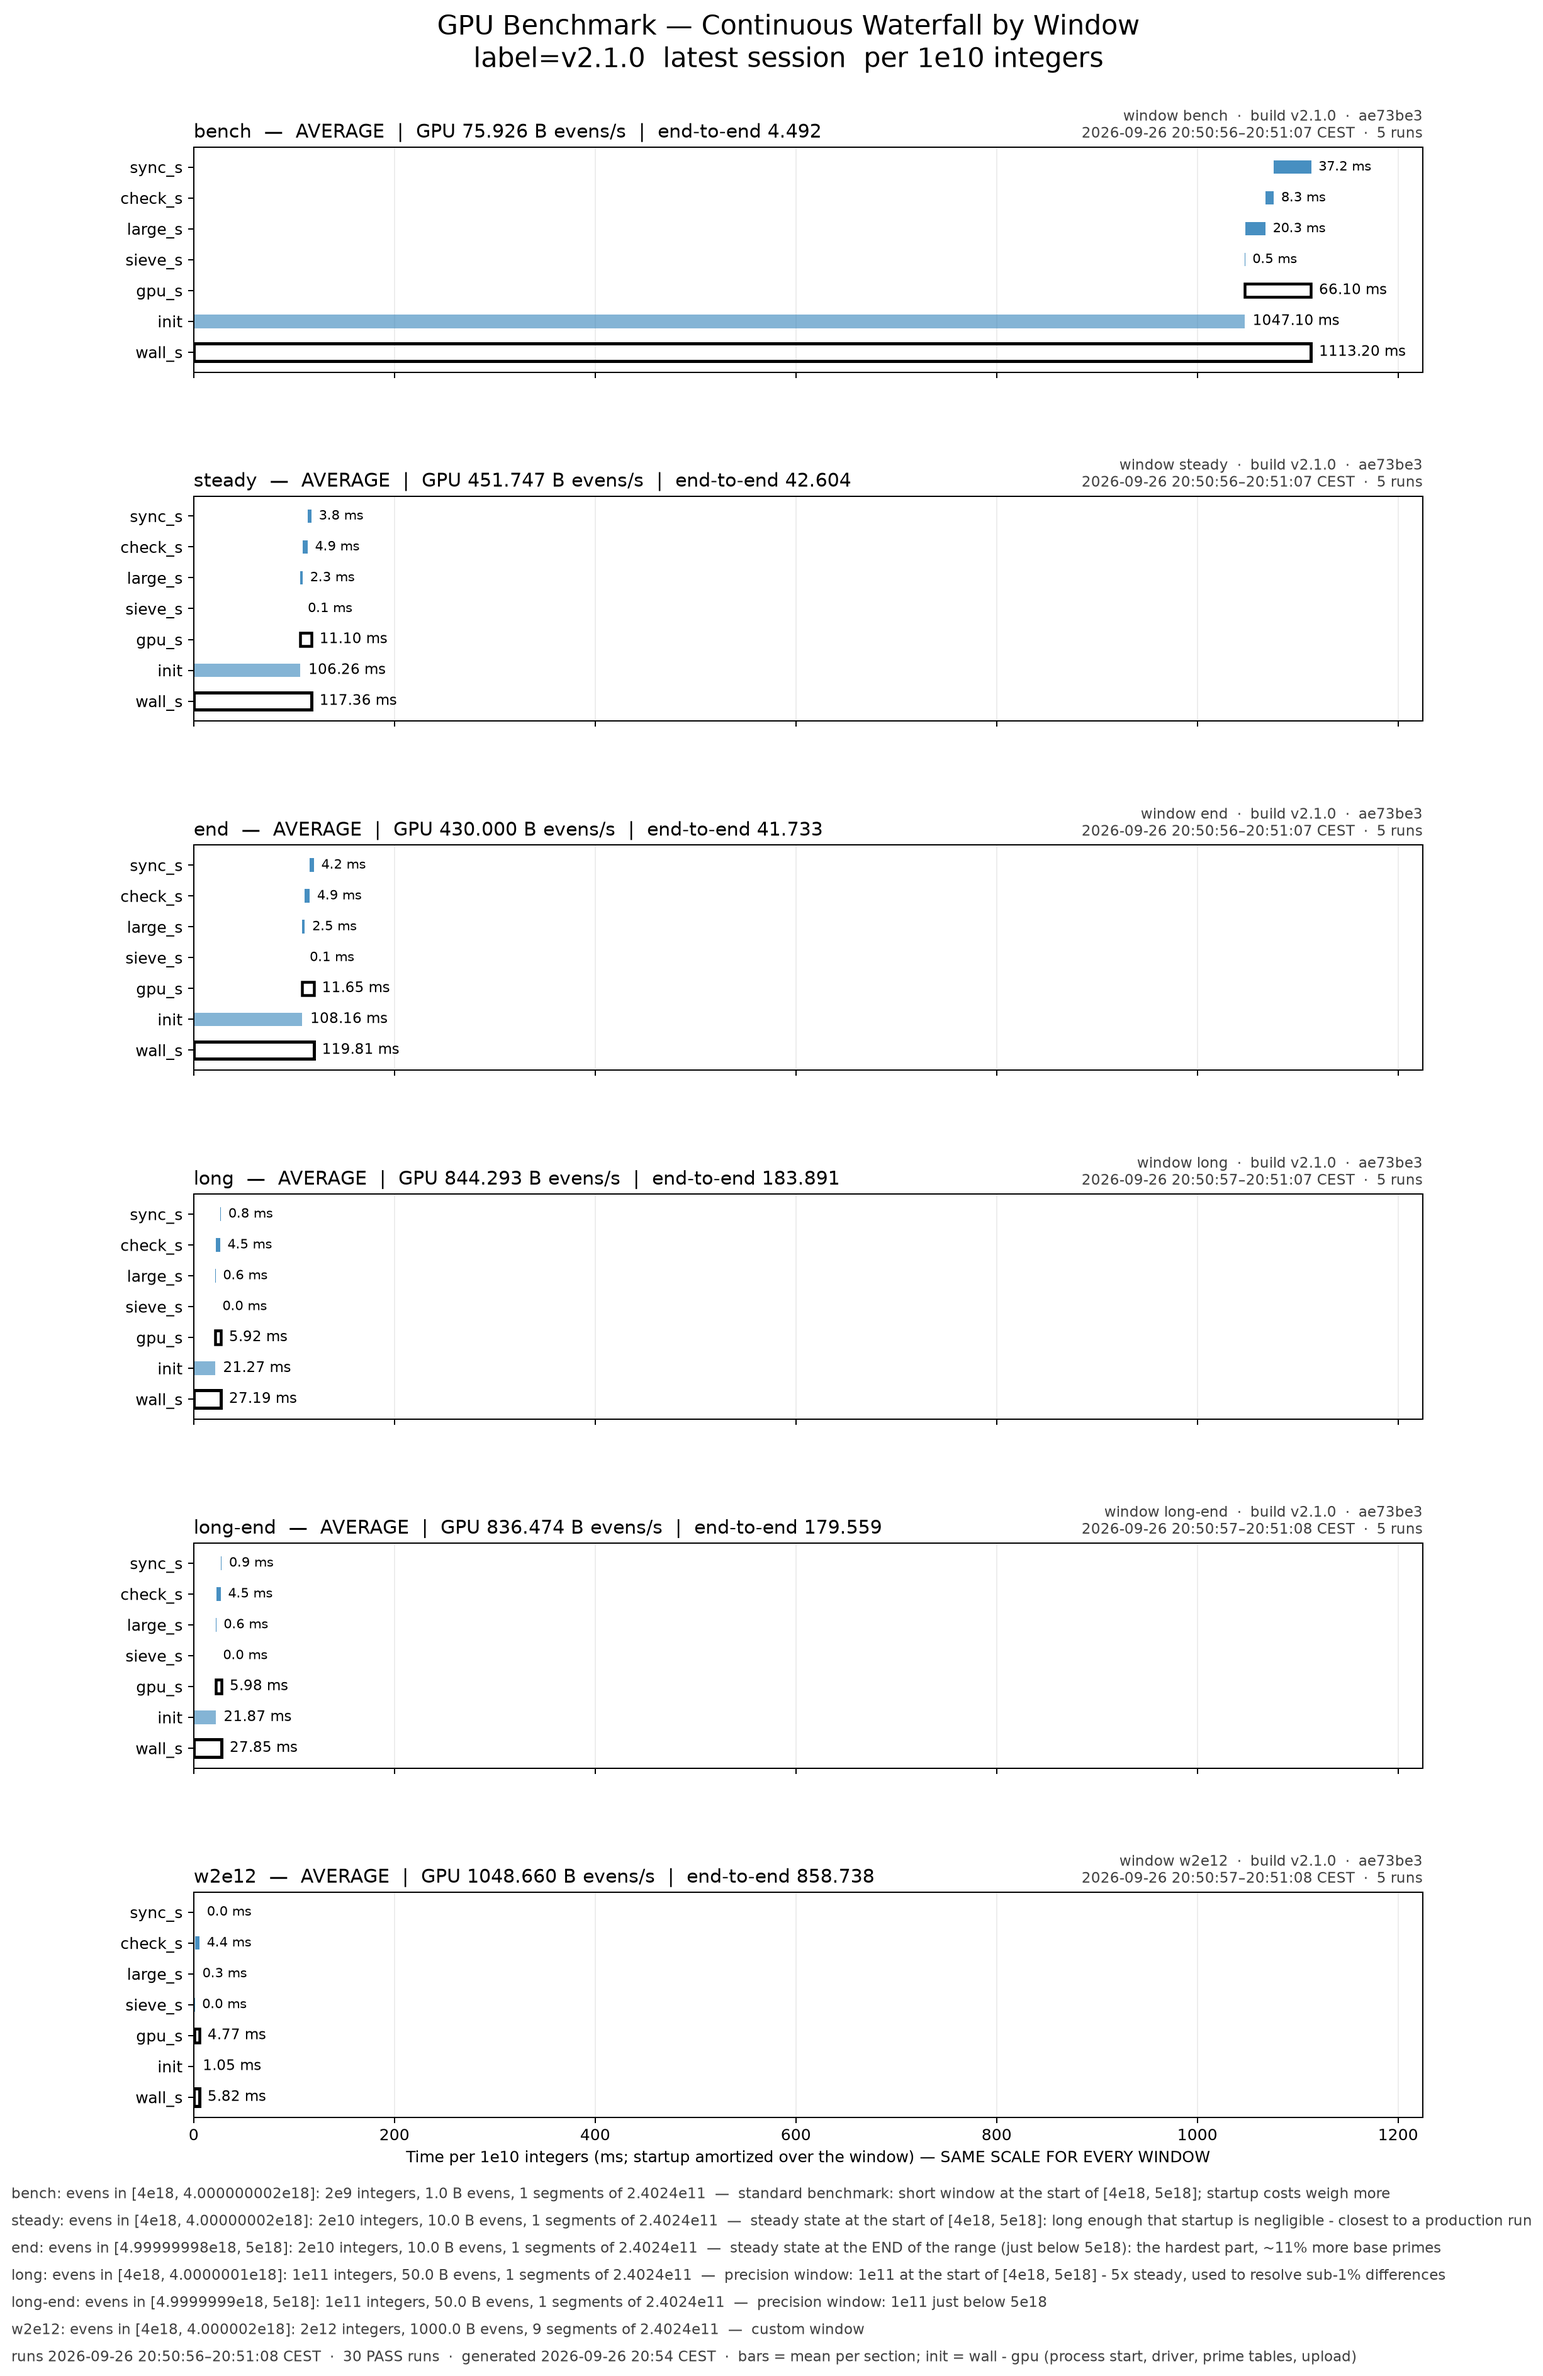
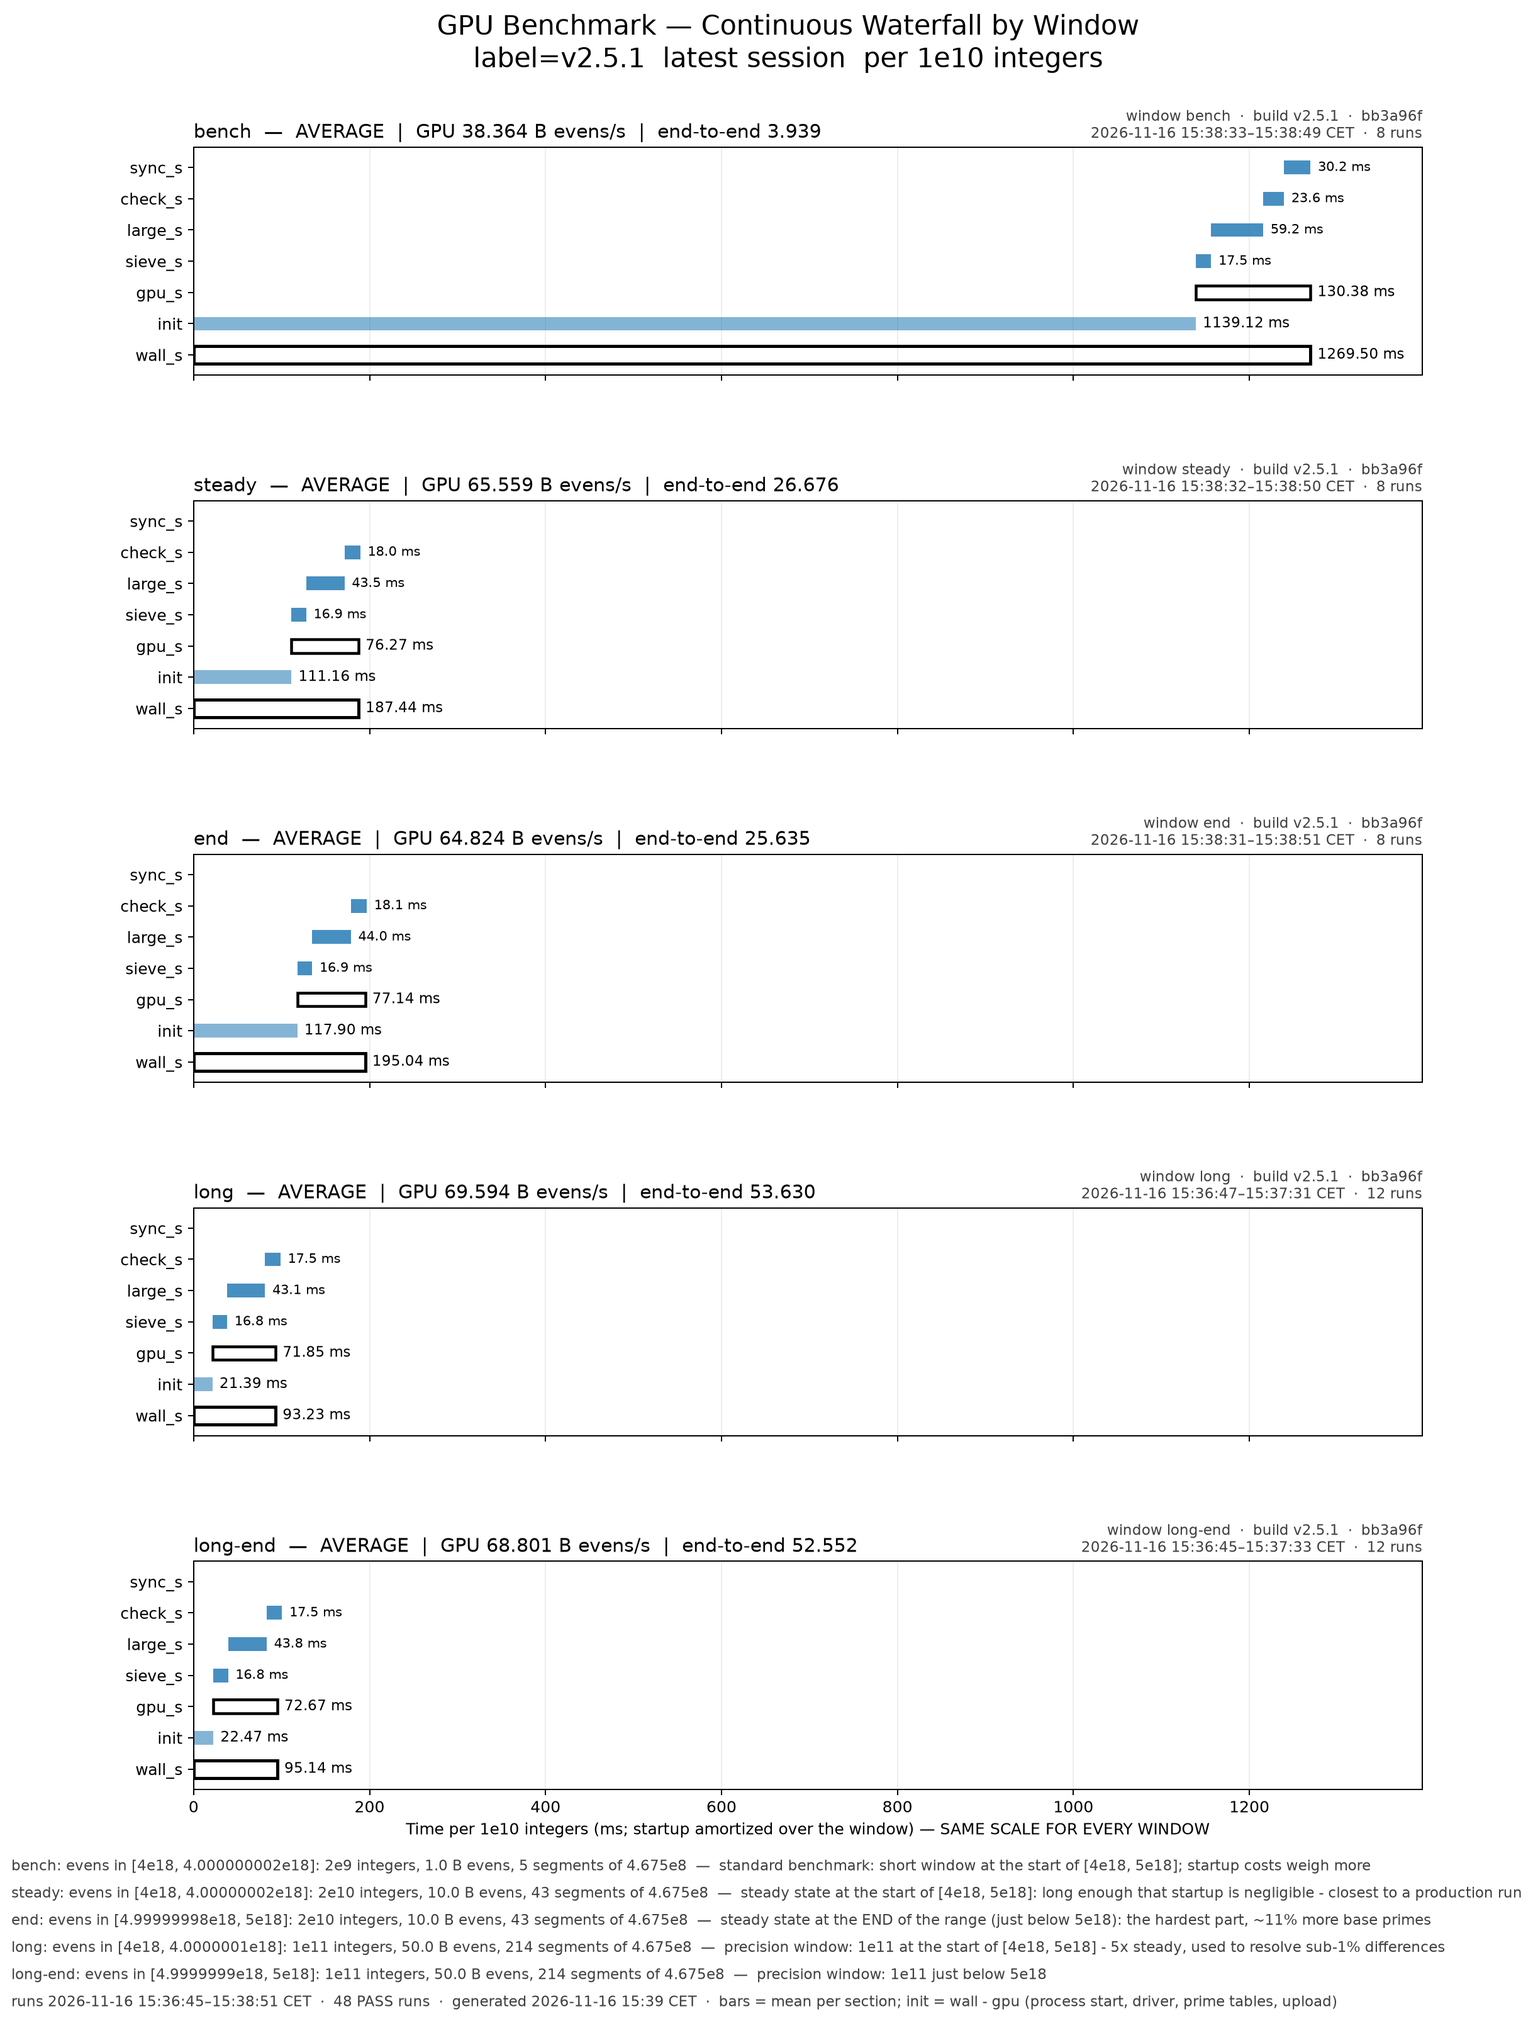
README: v2.5.1 performance (69.6 G evens/s), measured against v2.3.0
The README still quoted v2.3.0 (64.6 G evens/s, ~90 days). New session,
2026-11-16, production paused: bench.py with production's release binary
(bb3a96f, v2.5.1) and configuration (exact statistics incl. the prime-gap
walk, GB_BUCKET_VERIFY=500) paired against a v2.3.0 build (d5fe523 of the
pre-public history), each at its default segment:
  long      69.61 vs 64.30 G evens/s  +8.24% (95% CI ±0.12%), 12 rounds
  long-end  68.87 vs 63.38            +8.52% (±0.19%)
  steady +11.0%, end +11.3%, bench +6.2%, 8 rounds each
The v2.3.0 arm reproduces the README's old figures (64.30 vs 64.62 G).
2.74 J per 1e9 evens; [4e18, 5e18] in ~83 days at the long rate.

- README: headline, tagline, the table and the per-phase breakdown
  (large 431 / tile 168 / checker + statistics 175 ms per 1e11; the
  sieve overlaps the checker, GPU 718 ms).
- PROJECT-REFERENCE §13.2: a v2.5.1 entry; figure alt text.
- bench/bench-results.csv: both sessions appended (96 rows, nothing
  else changed); the v2.5.1 rows' commit column names the binary's
  release (bb3a96f) instead of the checkout bench.py ran in.
- make-plots.sh: v2.5.1 and v2.3.0 in the default labels; the three
  figures regenerated (the current-version figure is now v2.5.1).

diff --git a/README.md b/README.md
@@ -1,7 +1,7 @@
 <h1 align="center">goldbach-l0</h1>
 
 <p align="center">
-  <b>A Level Zero Goldbach verifier for Intel Arc GPUs: 64.6 billion even numbers per second on one B580.</b><br>
+  <b>A Level Zero Goldbach verifier for Intel Arc GPUs: 69.6 billion even numbers per second on one B580.</b><br>
   <a href="https://goldbach.net01.io">Live campaign</a> ·
   <a href="docs/CORRECTNESS.md">Correctness</a> ·
   <a href="docs/BENCHMARKING.md">Benchmarks</a> ·
@@ -22,9 +22,9 @@ compiled to SPIR-V and a C++23 host. It is running a campaign over
 records exact statistics of every even it verifies (smallest Goldbach
 primes, prime and twin-prime counts).
 
-**v2.3.0: 64.6 billion even numbers per second** at 4×10¹⁸ (63.8 G at the
-top of the range, 2.8 J per 10⁹ evens) with exact statistics on — the whole
-[4×10¹⁸, 5×10¹⁸] in about **90 days** on one B580.
+**v2.5.1: 69.6 billion even numbers per second** at 4×10¹⁸ (68.9 G at the
+top of the range, 2.7 J per 10⁹ evens) with exact statistics and prime gaps
+on — the whole [4×10¹⁸, 5×10¹⁸] in about **83 days** on one B580.
 
 | Document | Contents |
 |---|---|
@@ -95,13 +95,19 @@ reference: [PROJECT-REFERENCE.md](docs/PROJECT-REFERENCE.md) §5–§7.
 
 ## Performance
 
-| Window (bench.py, v2.3.0 vs v2.2.1, 8 paired rounds) | v2.3.0 | v2.2.1 | change |
+| Window (bench.py, v2.5.1 vs v2.3.0, 12 paired rounds) | v2.5.1 | v2.3.0 | change |
 |---|---|---|---|
-| long — 10¹¹ at 4×10¹⁸ | **64.62 G evens/s** | 59.54 G | +8.54% |
-| long-end — 10¹¹ ending at 5×10¹⁸ | **63.77 G** | 58.38 G | +9.23% |
+| long — 10¹¹ at 4×10¹⁸ | **69.61 G evens/s** | 64.30 G | +8.24% |
+| long-end — 10¹¹ ending at 5×10¹⁸ | **68.87 G** | 63.38 G | +8.52% |
 
-Per 10¹¹ integers at 4×10¹⁸: large-prime sieve 473 ms (packed kernel + hit
-lists), tile sieve 204 ms, checker 92 ms. The history of every version and
+Measured 2026-11-16 with production's release binary and configuration
+(exact statistics including the exact prime-gap walk, `GB_BUCKET_VERIFY=500`),
+each version at its own default segment; the paired 95% intervals are
+±0.12% and ±0.19%. v2.3.0 recorded no prime gaps: v2.5.1 is faster while
+doing that extra work. Per 10¹¹ integers at 4×10¹⁸: large-prime sieve
+431 ms (packed kernel + hit lists), tile sieve 168 ms, checker and
+statistics 175 ms; the next segment's sieve overlaps the checker, so the
+parts add up to more than the 718 ms GPU time. The history of every version and
 every measured change is in [PROJECT-REFERENCE.md](docs/PROJECT-REFERENCE.md)
 §9.2 and §13; methodology in [BENCHMARKING.md](docs/BENCHMARKING.md).
 

diff --git a/docs/PROJECT-REFERENCE.md b/docs/PROJECT-REFERENCE.md
@@ -1733,6 +1733,15 @@ dominated and not comparable.)
 
 ### 13.2 Measured performance
 
+- v2.5.1 (bench.py, 2026-11-16, production's release binary bb3a96f and
+  configuration: exact statistics incl. the prime-gap walk,
+  `GB_BUCKET_VERIFY=500`; paired against a v2.3.0 build, each at its
+  default segment): long **69.61 G** ev/s (v2.3.0 64.30, +8.24% ±0.12%,
+  12 rounds), long-end **68.87 G** (63.38, +8.52% ±0.19%); steady 65.54 G
+  (+11.0% ±1.0%), end 65.05 G (+11.3% ±0.4%), bench 38.49 G (+6.2% ±1.6%),
+  8 rounds each. 2.74 J per 1e9 evens (long); full [4e18, 5e18] ~83 days.
+  Per 1e11 at 4e18: large 431 ms, tile sieve 168 ms, checker + statistics
+  175 ms, GPU 718 ms (the sieve overlaps the checker, §9.2v).
 - v1.7.0 (tools/bench.py, 2026-09-24, display on the iGPU, 9 runs each):
   bench window 16.6 G, steady (2e10 @4e18) **17.7 G**, end (2e10 below
   5e18) 17.3 G ev/s, CV <= 1.1%; 8.1-8.3 J per 1e9 evens in steady state.
@@ -1740,7 +1749,7 @@ dominated and not comparable.)
   Figures: `docs/images/` (regenerate: `bash docs/make-plots.sh`):
 
   ![steady window by version](images/waterfall-steady-by-version.png)
-  ![v1.8.0 by window](images/waterfall-current-by-window.png)
+  ![current version by window](images/waterfall-current-by-window.png)
 - v1.8.0 (bench.py, 9 paired runs vs v1.7.0 and v1.6.2): bench 19.1 G,
   steady **20.5 G**, end **20.0 G** ev/s; 7.2-7.4 J per 1e9 evens; full
   [4e18, 5e18] ~290 days (§9.2c).
